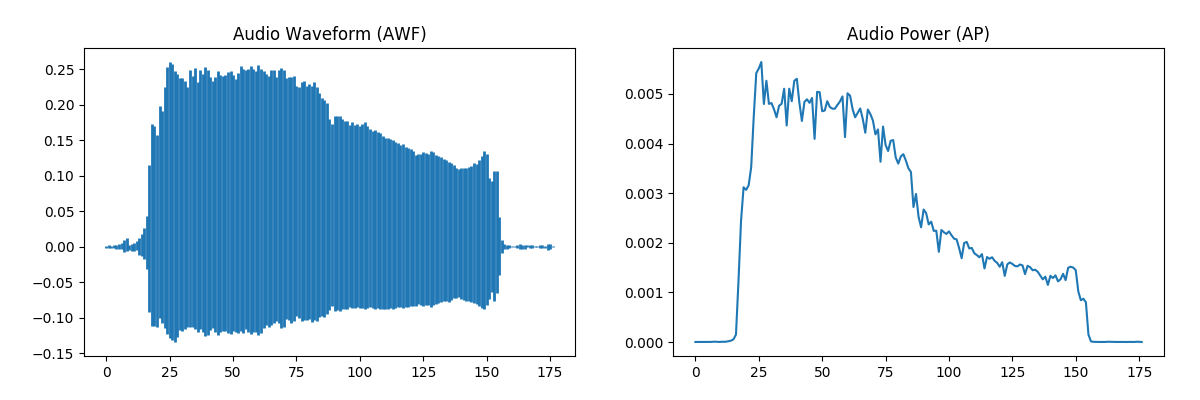
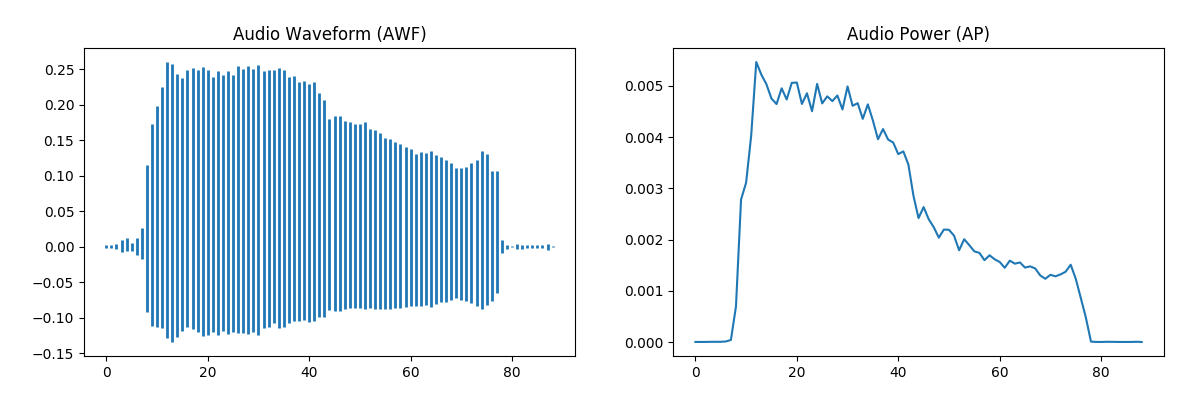
minor changes

diff --git a/thesis/chapters/3_clustering/partitional-clustering.tex b/thesis/chapters/3_clustering/partitional-clustering.tex
@@ -42,7 +42,7 @@ Dados dos conjuntos de clusters obtenidos aplicando dos diferentes corridas de K
 De ahí que el resultado de minimizar la función SSE represente el conjunto de clusters óptimo.
 
 Los centroides que minimizan la SSE son la media de los puntos de cada cluster~\cite{Tan05}.
-El centroide del $k$-ésimo centroide $c_k$ quedaría entonces definido según la ecuación~(\ref{eq:centroid}).
+El centroide del $k$-ésimo cluster, $c_k$, quedaría entonces definido según la ecuación~(\ref{eq:centroid}).
 
 \begin{equation}
     \label{eq:centroid}
@@ -65,8 +65,6 @@ Este enfoque a menudo ofrece buenos resultados, pero solamente resulta práctico
 
 Otra variante, conocida como \textbf{K-Means++}~\cite{Arthur07}, consiste en primeramente seleccionar un punto de manera aleatoria o tomando el centroide de todos los puntos.
 Luego, se selecciona el punto más alejado de los centroides formados con anterioridad y se repite este paso hasta obtener $K$ centroides iniciales.
-
-Posteriormente mencionaremos algunas otras versiones de K-Means que persiguen obtener resultados más próximos al óptimo de la función SSE y que son menos susceptibles a problemas derivados de la selección inicial de los centroides.
 
 \subsubsection{Estimación del número de clusters}
 

diff --git a/thesis/chapters/1_features/mpeg7.tex b/thesis/chapters/1_features/mpeg7.tex
@@ -38,7 +38,7 @@ La representación gráfica del AP posibilita el análisis directo de la evoluci
 \begin{figure}[!h]
     \centering
     \includegraphics[width=\textwidth]{awf+ap.png}
-    \caption{Características básicas de una señal de audio según MPEG-7.}
+    \caption{Características básicas de una señal de audio según MPEG-7 (tramas de 1024 muestras).}
     \label{img:awf+ap}
 \end{figure}
 

diff --git a/code/mpeg7.py b/code/mpeg7.py
@@ -15,7 +15,7 @@ pool = essentia.Pool()
 
 # BASIC DESCRIPTORS
 
-for i, frame in enumerate(FrameGenerator(audio, frameSize=512, hopSize=512, startFromZero=True)):
+for i, frame in enumerate(FrameGenerator(audio, frameSize=1024, hopSize=1024, startFromZero=True)):
     awf.append([(i, frame.min()), (i, frame.max())])
     pool.add('AP', power(frame))
 
